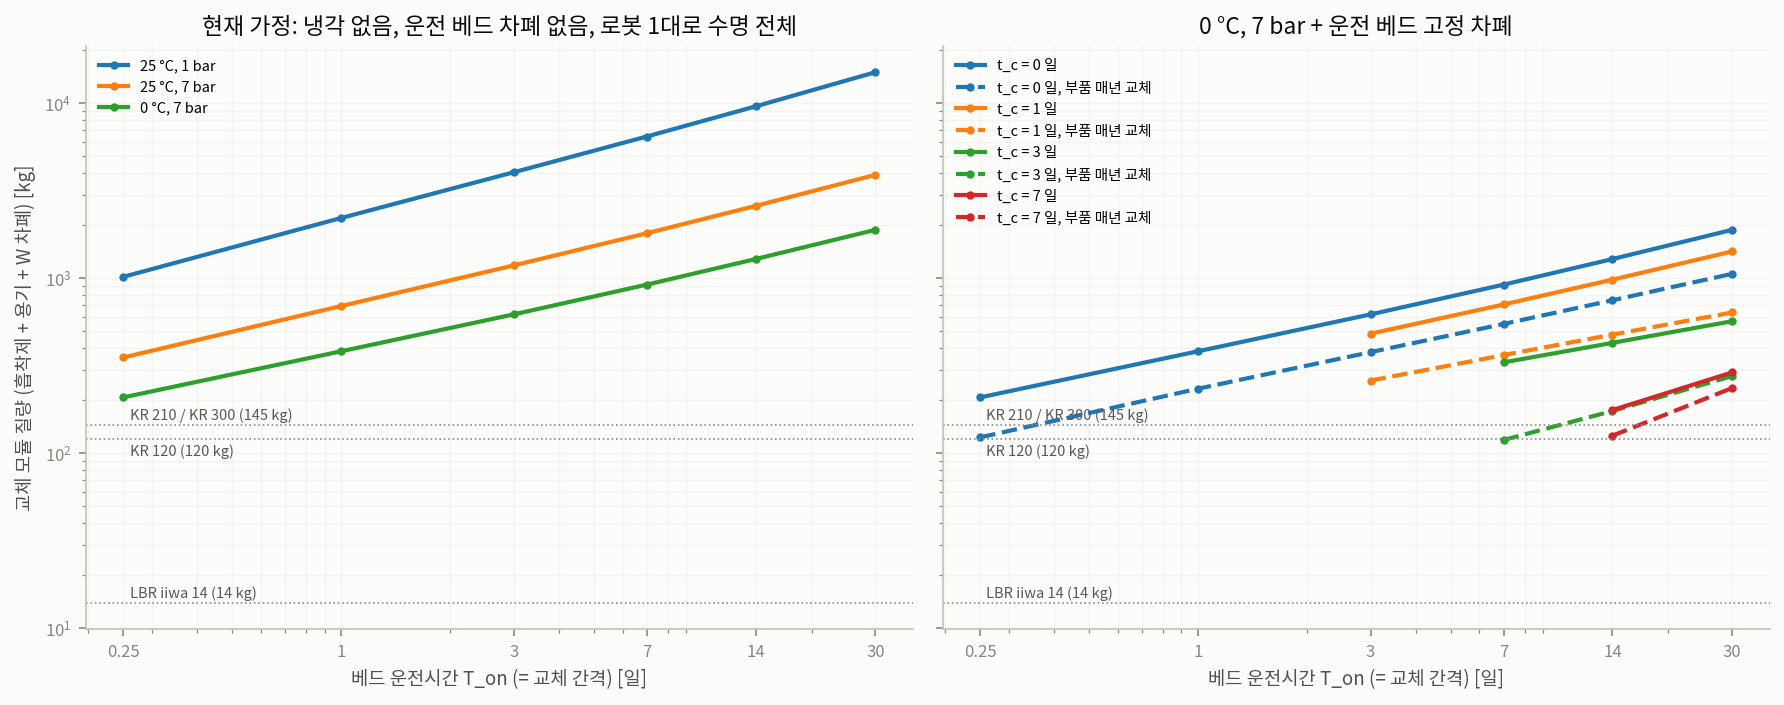
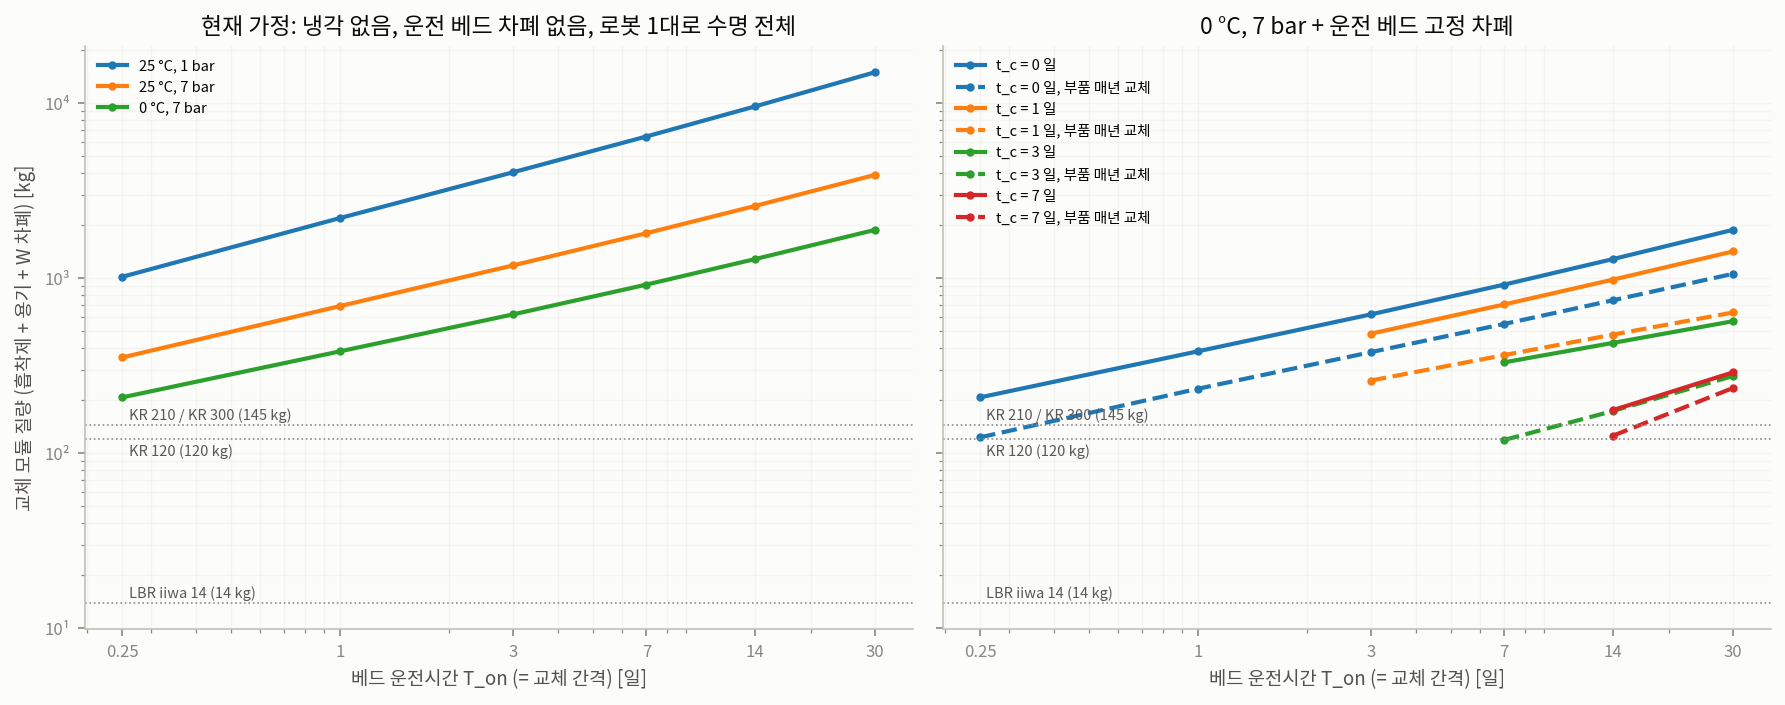
11 그림의 로그축을 viz_style.log_axis로 통일
시드 민감도 커밋(a22ddd1)에서 만든 로그축 눈금 함수를 Xe 베드 그림에도 적용. 수치 변화 없음.

Claude-Session: https://claude.ai/code/session_018tHDNmYBoTeDdEzUboWCHe

diff --git a/dose-aware-traj/scripts/11_xe_bed_budget.py b/dose-aware-traj/scripts/11_xe_bed_budget.py
@@ -243,7 +243,7 @@ def plot(rows, robots, path):
             ax.text(0.26, cap * (0.80 if crowded else 1.07), " / ".join(n for n, _ in items) + f" ({cap:g} kg)",
                     fontsize=7, color="0.35")
         ax.set_xscale("log")
-        ax.set_yscale("log")
+        viz_style.log_axis(ax, "y")
         ax.set_xticks(T_ON_DAYS)
         ax.set_xticklabels([f"{t:g}" for t in T_ON_DAYS])
         ax.set_xlabel("베드 운전시간 T_on (= 교체 간격) [일]")
